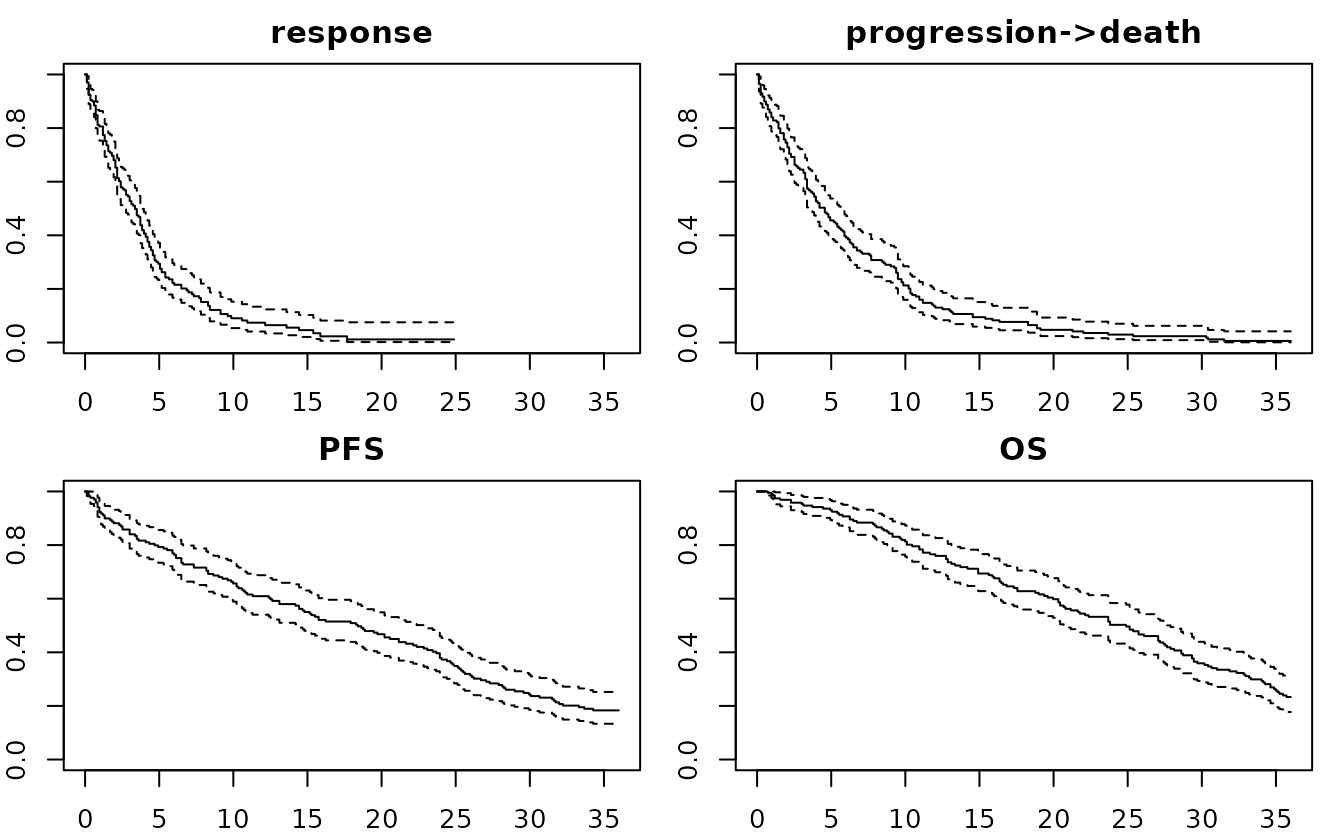
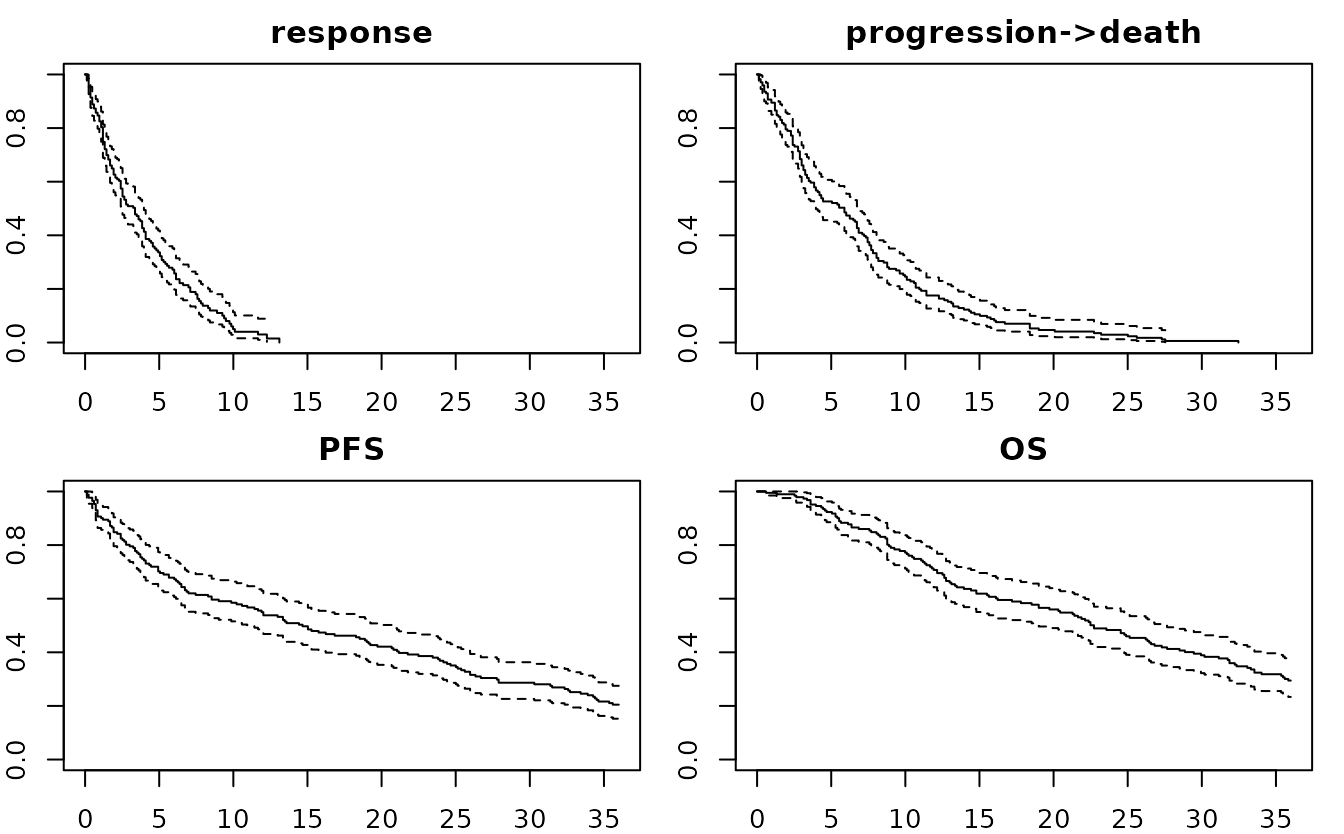
Deploying to gh-pages from @ Boehringer-Ingelheim/msmsimr@603850e400cb0e681c10d4d981e65c0ab5f026e9 🚀

diff --git a/articles/get-started.html b/articles/get-started.html
@@ -78,8 +78,8 @@
 <span></span>
 <span><span class="kw"><a href="https://rdrr.io/r/base/library.html" class="external-link">library</a></span><span class="op">(</span><span class="va">msmsimr</span><span class="op">)</span></span></code></pre></div>
 <p>Work In Progress!</p>
-<div id="htmlwidget-885a30f2a0cb4b672ce3" style="width:700px;height:200px;" class="nomnoml html-widget "></div>
-<script type="application/json" data-for="htmlwidget-885a30f2a0cb4b672ce3">{"x":{"code":"\n#fill: #FEFEFF\n#lineWidth: 1\n#zoom: 4\n#direction: right\n\n[<state>start]\n[start]-[<note>1]\n[1]->[<state>response]\n[start]-[<note>2]\n[2]->[<state>progression]\n[response]-[<note>3]\n[3]->[progression]\n[progression]-[<note>4]\n[4]->[<state>death]","svg":false,"png":null},"evals":[],"jsHooks":[]}</script><p>This model contains all states relevant to response rate, PFS, OS
+<div id="htmlwidget-0bf49256549ca2828ade" style="width:700px;height:200px;" class="nomnoml html-widget "></div>
+<script type="application/json" data-for="htmlwidget-0bf49256549ca2828ade">{"x":{"code":"\n#fill: #FEFEFF\n#lineWidth: 1\n#zoom: 4\n#direction: right\n\n[<state>start]\n[start]-[<note>1]\n[1]->[<state>response]\n[start]-[<note>2]\n[2]->[<state>progression]\n[response]-[<note>3]\n[3]->[progression]\n[progression]-[<note>4]\n[4]->[<state>death]","svg":false,"png":null},"evals":[],"jsHooks":[]}</script><p>This model contains all states relevant to response rate, PFS, OS
 (and duration of response). Assuming a low rate of direct transitions
 from start/response to death, the model does not include direct
 transitions from start/response to death to reduce complexity.</p>
@@ -120,16 +120,16 @@ heuristically.</p>
 <span><span class="co">#&gt; <span style="color: #949494;"># A tibble: 521 × 8</span></span></span>
 <span><span class="co">#&gt;    id    Tstart  Tstop duration from        to          status trans</span></span>
 <span><span class="co">#&gt;    <span style="color: #949494; font-style: italic;">&lt;fct&gt;</span>  <span style="color: #949494; font-style: italic;">&lt;dbl&gt;</span>  <span style="color: #949494; font-style: italic;">&lt;dbl&gt;</span>    <span style="color: #949494; font-style: italic;">&lt;dbl&gt;</span> <span style="color: #949494; font-style: italic;">&lt;fct&gt;</span>       <span style="color: #949494; font-style: italic;">&lt;fct&gt;</span>        <span style="color: #949494; font-style: italic;">&lt;dbl&gt;</span> <span style="color: #949494; font-style: italic;">&lt;dbl&gt;</span></span></span>
-<span><span class="co">#&gt; <span style="color: #BCBCBC;"> 1</span> 2      0      0.721    0.721 start       response         1     1</span></span>
-<span><span class="co">#&gt; <span style="color: #BCBCBC;"> 2</span> 2      0.721  4.21     3.49  response    progression      1     3</span></span>
-<span><span class="co">#&gt; <span style="color: #BCBCBC;"> 3</span> 2      4.21   4.93     0.721 progression death            1     4</span></span>
-<span><span class="co">#&gt; <span style="color: #BCBCBC;"> 4</span> 4      0      0.721    0.721 start       response         1     1</span></span>
-<span><span class="co">#&gt; <span style="color: #BCBCBC;"> 5</span> 4      0.721 17.8     17.1   response    progression      1     3</span></span>
-<span><span class="co">#&gt; <span style="color: #BCBCBC;"> 6</span> 4     17.8   31.6     13.8   progression death            1     4</span></span>
-<span><span class="co">#&gt; <span style="color: #BCBCBC;"> 7</span> 6      0      9.86     9.86  start       progression      1     2</span></span>
-<span><span class="co">#&gt; <span style="color: #BCBCBC;"> 8</span> 6      9.86  14.3      4.45  progression death            1     4</span></span>
-<span><span class="co">#&gt; <span style="color: #BCBCBC;"> 9</span> 8      0      1.20     1.20  start       response         1     1</span></span>
-<span><span class="co">#&gt; <span style="color: #BCBCBC;">10</span> 8      1.20   3.25     2.04  response    progression      1     3</span></span>
+<span><span class="co">#&gt; <span style="color: #BCBCBC;"> 1</span> 2      0      0.120    0.120 start       progression      1     2</span></span>
+<span><span class="co">#&gt; <span style="color: #BCBCBC;"> 2</span> 2      0.120  0.601    0.481 progression death            1     4</span></span>
+<span><span class="co">#&gt; <span style="color: #BCBCBC;"> 3</span> 4      0      6.25     6.25  start       response         1     1</span></span>
+<span><span class="co">#&gt; <span style="color: #BCBCBC;"> 4</span> 4      6.25  28.3     22.0   response    progression      1     3</span></span>
+<span><span class="co">#&gt; <span style="color: #BCBCBC;"> 5</span> 4     28.3   29.2      0.962 progression death            1     4</span></span>
+<span><span class="co">#&gt; <span style="color: #BCBCBC;"> 6</span> 6      0      3.13     3.13  start       response         1     1</span></span>
+<span><span class="co">#&gt; <span style="color: #BCBCBC;"> 7</span> 6      3.13  17.0     13.8   response    progression      1     3</span></span>
+<span><span class="co">#&gt; <span style="color: #BCBCBC;"> 8</span> 6     17.0   20.8      3.85  progression death            1     4</span></span>
+<span><span class="co">#&gt; <span style="color: #BCBCBC;"> 9</span> 8      0      1.68     1.68  start       response         1     1</span></span>
+<span><span class="co">#&gt; <span style="color: #BCBCBC;">10</span> 8      1.68   6.73     5.05  response    progression      1     3</span></span>
 <span><span class="co">#&gt; <span style="color: #949494;"># … with 511 more rows</span></span></span></code></pre></div>
 <p>These can be used to estimate time-to-first event for single or
 compound endpoints.</p>
@@ -153,7 +153,7 @@ compound endpoints.</p>
 <div class="sourceCode" id="cb5"><pre class="downlit sourceCode r">
 <code class="sourceCode R"><span><span class="fu"><a href="../reference/next_state_probabilities.html">next_state_probabilities</a></span><span class="op">(</span><span class="va">msm</span>, <span class="va">tbl_data</span>, as_matrix <span class="op">=</span> <span class="cn">TRUE</span><span class="op">)</span></span>
 <span><span class="co">#&gt;             start response progression death</span></span>
-<span><span class="co">#&gt; start           0    0.635       0.365     0</span></span>
+<span><span class="co">#&gt; start           0    0.665       0.335     0</span></span>
 <span><span class="co">#&gt; response        0    0.000       1.000     0</span></span>
 <span><span class="co">#&gt; progression     0    0.000       0.000     1</span></span>
 <span><span class="co">#&gt; death           0    0.000       0.000     0</span></span></code></pre></div>
@@ -242,9 +242,9 @@ t-distributed.</p>
 <div class="sourceCode" id="cb10"><pre class="downlit sourceCode r">
 <code class="sourceCode R"><span><span class="va">lls</span> <span class="op">&lt;-</span> <span class="fu">purrr</span><span class="fu">::</span><span class="fu"><a href="https://purrr.tidyverse.org/reference/map.html" class="external-link">map_dbl</a></span><span class="op">(</span><span class="fl">1</span><span class="op">:</span><span class="fl">5</span>, <span class="op">~</span><span class="fu"><a href="../reference/log_likelihood.html">log_likelihood</a></span><span class="op">(</span><span class="va">msm</span>, <span class="va">cal1</span>, <span class="va">cal2</span>, <span class="va">cal3</span><span class="op">)</span><span class="op">)</span></span>
 <span><span class="fu"><a href="https://rdrr.io/r/base/mean.html" class="external-link">mean</a></span><span class="op">(</span><span class="va">lls</span><span class="op">)</span></span>
-<span><span class="co">#&gt; [1] -7.252797</span></span>
+<span><span class="co">#&gt; [1] -7.256332</span></span>
 <span><span class="fu"><a href="https://rdrr.io/r/stats/sd.html" class="external-link">sd</a></span><span class="op">(</span><span class="va">lls</span><span class="op">)</span> <span class="op">/</span> <span class="fu"><a href="https://rdrr.io/r/base/MathFun.html" class="external-link">sqrt</a></span><span class="op">(</span><span class="fl">5</span><span class="op">)</span> <span class="co"># not ideal - quite variable; bump nsim? needs to be faster</span></span>
-<span><span class="co">#&gt; [1] 0.002091821</span></span></code></pre></div>
+<span><span class="co">#&gt; [1] 0.009388182</span></span></code></pre></div>
 <p>This approximate likelihood can be optimized.</p>
 <p>First, need to make parameters tunable. PFS/OS and response rate
 alone are insufficient to identify all transitions, so assuming we have
